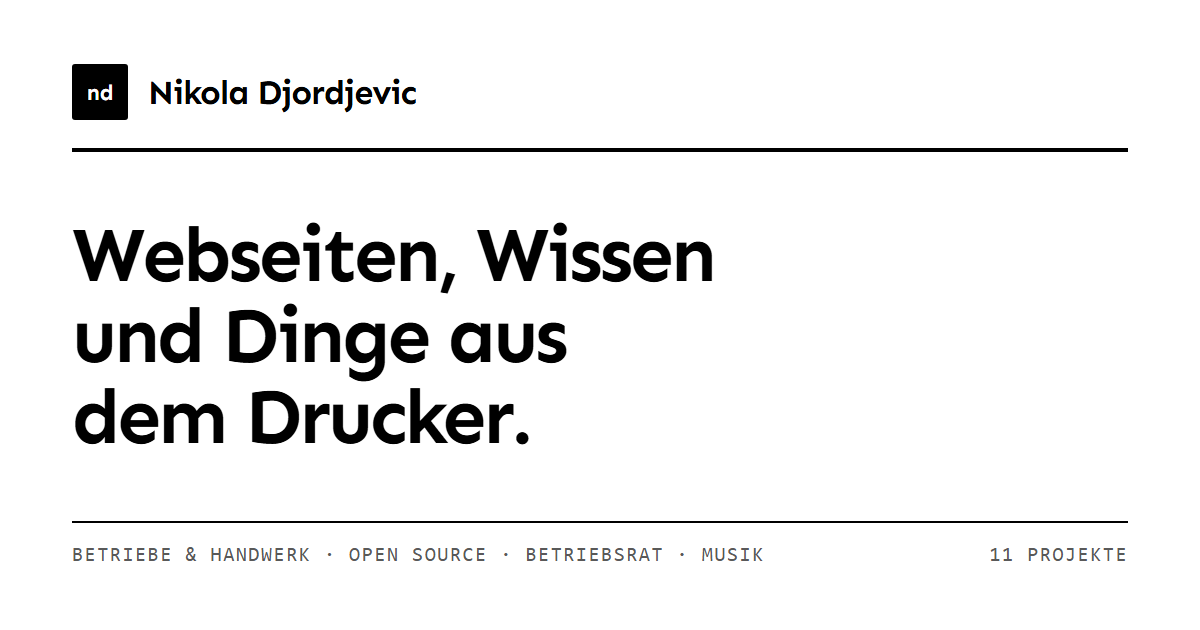
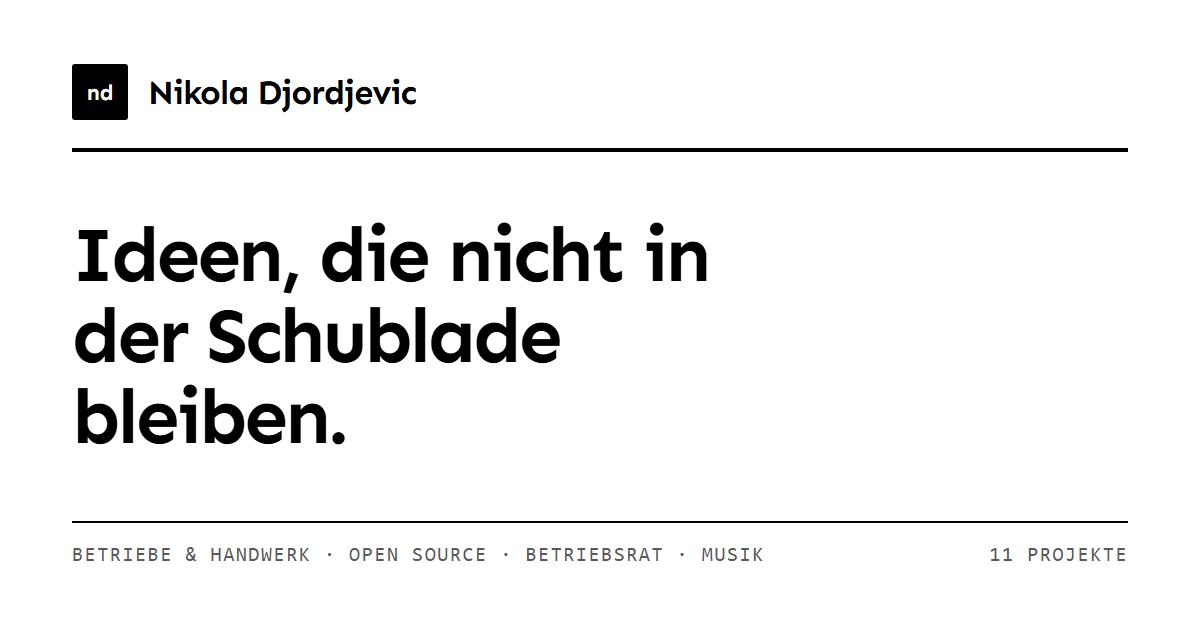
Startseite als Kontaktabzug, neuer Leitsatz: Ideen, die nicht in der Schublade bleiben

Changed region(s): [[0.0617, 0.3619, 0.6167, 0.6032], [0.0617, 0.6032, 0.4625, 0.7238]]

diff --git a/index.html b/index.html
@@ -18,7 +18,7 @@
 <meta property="og:image" content="https://tschortsch3711.github.io/portfolio/assets/bilder/og/start.png">
 <meta property="og:image:width" content="1200">
 <meta property="og:image:height" content="630">
-<meta property="og:image:alt" content="Nikola Djordjevic: Webseiten, Wissen und Dinge aus dem Drucker.">
+<meta property="og:image:alt" content="Nikola Djordjevic: Ideen, die nicht in der Schublade bleiben.">
 <meta name="twitter:card" content="summary_large_image">
 <link rel="icon" href="./favicon.svg" type="image/svg+xml">
 <link rel="preload" href="./fonts/Sen/Sen-Bold.woff2" as="font" type="font/woff2" crossorigin>
@@ -26,6 +26,7 @@
 <link rel="stylesheet" href="./assets/css/site.css">
 </head>
 <body>
+<div class="start">
 <a class="springen" href="#inhalt">Zum Inhalt springen</a>
 <header class="kopf">
   <div class="rahmen">
@@ -36,137 +37,145 @@
     <a class="kopf-link" href="https://github.com/tschortsch3711">GitHub</a>
   </div>
 </header>
-<main id="inhalt">
-  <div class="rahmen">
-    <section class="einleitung">
-      <h1>Webseiten, Wissen und Dinge aus dem Drucker.</h1>
-      <p>Ich bin Nikola, Designer und Maker aus Freising bei München. Hier sind meine öffentlichen Webprojekte, jedes mit einer eigenen Seite.</p>
-    </section>
-
-    <section class="gruppe" aria-labelledby="g-betriebe">
-      <div class="gruppe-kopf">
-        <h2 class="etikett" id="g-betriebe">Betriebe &amp; Handwerk</h2>
-        <span class="etikett" aria-hidden="true">3</span>
-      </div>
+<section class="einleitung">
+  <h1>Ideen, die nicht in der Schublade bleiben.</h1>
+  <p>Ich bin Nikola, Designer und Maker aus Freising bei München. KI nutze ich als Werkzeug, die Ideen sind meine. Hier ist, was daraus geworden ist, jedes Projekt mit eigener Seite.</p>
+</section>
+<main id="inhalt" class="raster">
+    <section class="spalte" aria-labelledby="g-betriebe">
+      <h2 class="etikett spalte-kopf" id="g-betriebe">Betriebe &amp; Handwerk<span aria-hidden="true">3</span></h2>
       <ul>
         <li>
-          <a class="zeile" href="projekte/3dmensional/">
-            <span class="zeile-nr" aria-hidden="true">01</span>
-            <span class="zeile-name">3Dmensional</span>
-            <span class="zeile-satz">3D-Druck, Konstruktion und Gravur in Kranzberg bei Freising.</span>
-            <span class="zeile-pfeil" aria-hidden="true">→</span>
+          <a class="kachel" href="projekte/3dmensional/">
+            <img src="assets/bilder/3dmensional-800.webp" width="800" height="500" alt="" loading="lazy">
+            <span class="kachel-text">
+              <span class="kachel-nr" aria-hidden="true">01</span>
+              <span class="kachel-name">3Dmensional</span>
+              <span class="kachel-satz">3D-Druck, Konstruktion und Gravur in Kranzberg bei Freising.</span>
+            </span>
           </a>
         </li>
         <li>
-          <a class="zeile" href="projekte/lagerhimmel/">
-            <span class="zeile-nr" aria-hidden="true">02</span>
-            <span class="zeile-name">Lagerhimmel</span>
-            <span class="zeile-satz">Abschließbare Lagerhallen und Garagen in Kranzberg.</span>
-            <span class="zeile-pfeil" aria-hidden="true">→</span>
+          <a class="kachel" href="projekte/lagerhimmel/">
+            <img src="assets/bilder/lagerhimmel-800.webp" width="800" height="500" alt="" loading="lazy">
+            <span class="kachel-text">
+              <span class="kachel-nr" aria-hidden="true">02</span>
+              <span class="kachel-name">Lagerhimmel</span>
+              <span class="kachel-satz">Abschließbare Lagerhallen und Garagen in Kranzberg.</span>
+            </span>
           </a>
         </li>
         <li>
-          <a class="zeile" href="projekte/ganachekatze/">
-            <span class="zeile-nr" aria-hidden="true">03</span>
-            <span class="zeile-name">Ganachekatze</span>
-            <span class="zeile-satz">Backblog, Rezepte und Shop rund ums Backen mit Wow-Effekt.</span>
-            <span class="zeile-pfeil" aria-hidden="true">→</span>
+          <a class="kachel" href="projekte/ganachekatze/">
+            <img src="assets/bilder/ganachekatze-800.webp" width="800" height="500" alt="" loading="lazy">
+            <span class="kachel-text">
+              <span class="kachel-nr" aria-hidden="true">03</span>
+              <span class="kachel-name">Ganachekatze</span>
+              <span class="kachel-satz">Backblog, Rezepte und Shop rund ums Backen mit Wow-Effekt.</span>
+            </span>
           </a>
         </li>
       </ul>
     </section>
-
-    <section class="gruppe" aria-labelledby="g-open-source">
-      <div class="gruppe-kopf">
-        <h2 class="etikett" id="g-open-source">Open Source</h2>
-        <span class="etikett" aria-hidden="true">3</span>
-      </div>
+    <section class="spalte" aria-labelledby="g-open-source">
+      <h2 class="etikett spalte-kopf" id="g-open-source">Open Source<span aria-hidden="true">3</span></h2>
       <ul>
         <li>
-          <a class="zeile" href="projekte/von-ka-zu-ki/">
-            <span class="zeile-nr" aria-hidden="true">04</span>
-            <span class="zeile-name">Von K.A. zu K.I.</span>
-            <span class="zeile-satz">Ein verständliches KI-Glossar, über bekannte Fachwelten greifbar gemacht.</span>
-            <span class="zeile-pfeil" aria-hidden="true">→</span>
+          <a class="kachel" href="projekte/von-ka-zu-ki/">
+            <img src="assets/bilder/von-ka-zu-ki-800.webp" width="800" height="500" alt="" loading="lazy">
+            <span class="kachel-text">
+              <span class="kachel-nr" aria-hidden="true">04</span>
+              <span class="kachel-name">Von K.A. zu K.I.</span>
+              <span class="kachel-satz">Ein verständliches KI-Glossar, über bekannte Fachwelten greifbar gemacht.</span>
+            </span>
           </a>
         </li>
         <li>
-          <a class="zeile" href="projekte/fleischbibel/">
-            <span class="zeile-nr" aria-hidden="true">05</span>
-            <span class="zeile-name">Fleischbibel</span>
-            <span class="zeile-satz">Die zentrale Dokumentation der Fleischgemeinschaft.</span>
-            <span class="zeile-pfeil" aria-hidden="true">→</span>
+          <a class="kachel" href="projekte/fleischbibel/">
+            <img src="assets/bilder/fleischbibel-800.webp" width="800" height="500" alt="" loading="lazy">
+            <span class="kachel-text">
+              <span class="kachel-nr" aria-hidden="true">05</span>
+              <span class="kachel-name">Fleischbibel</span>
+              <span class="kachel-satz">Die zentrale Dokumentation der Fleischgemeinschaft.</span>
+            </span>
           </a>
         </li>
         <li>
-          <a class="zeile" href="projekte/shisha-as-a-service/">
-            <span class="zeile-nr" aria-hidden="true">06</span>
-            <span class="zeile-name">Shisha as a Service</span>
-            <span class="zeile-satz">Vier Shisha-Bars zur Wahl, zwischen Freising und Regensburg.</span>
-            <span class="zeile-pfeil" aria-hidden="true">→</span>
+          <a class="kachel" href="projekte/shisha-as-a-service/">
+            <img src="assets/bilder/shisha-as-a-service-800.webp" width="800" height="500" alt="" loading="lazy">
+            <span class="kachel-text">
+              <span class="kachel-nr" aria-hidden="true">06</span>
+              <span class="kachel-name">Shisha as a Service</span>
+              <span class="kachel-satz">Vier Shisha-Bars zur Wahl, zwischen Freising und Regensburg.</span>
+            </span>
           </a>
         </li>
       </ul>
     </section>
-
-    <section class="gruppe" aria-labelledby="g-betriebsrat">
-      <div class="gruppe-kopf">
-        <h2 class="etikett" id="g-betriebsrat">Betriebsrat</h2>
-        <span class="etikett" aria-hidden="true">3</span>
-      </div>
+    <section class="spalte" aria-labelledby="g-betriebsrat">
+      <h2 class="etikett spalte-kopf" id="g-betriebsrat">Betriebsrat<span aria-hidden="true">3</span></h2>
       <ul>
         <li>
-          <a class="zeile" href="projekte/br-simulator/">
-            <span class="zeile-nr" aria-hidden="true">07</span>
-            <span class="zeile-name">BR-Simulator</span>
-            <span class="zeile-satz">Eine Woche Betriebsratsarbeit als Text-Simulation im Browser.</span>
-            <span class="zeile-pfeil" aria-hidden="true">→</span>
+          <a class="kachel" href="projekte/br-simulator/">
+            <img src="assets/bilder/br-simulator-800.webp" width="800" height="500" alt="" loading="lazy">
+            <span class="kachel-text">
+              <span class="kachel-nr" aria-hidden="true">07</span>
+              <span class="kachel-name">BR-Simulator</span>
+              <span class="kachel-satz">Eine Woche Betriebsratsarbeit als Text-Simulation im Browser.</span>
+            </span>
           </a>
         </li>
         <li>
-          <a class="zeile" href="projekte/br-selbstcheck/">
-            <span class="zeile-nr" aria-hidden="true">08</span>
-            <span class="zeile-name">BR-Selbstcheck</span>
-            <span class="zeile-satz">Ein Selbstcheck für alle, die über eine Kandidatur zum Betriebsrat nachdenken.</span>
-            <span class="zeile-pfeil" aria-hidden="true">→</span>
+          <a class="kachel" href="projekte/br-selbstcheck/">
+            <img src="assets/bilder/br-selbstcheck-800.webp" width="800" height="500" alt="" loading="lazy">
+            <span class="kachel-text">
+              <span class="kachel-nr" aria-hidden="true">08</span>
+              <span class="kachel-name">BR-Selbstcheck</span>
+              <span class="kachel-satz">Ein Selbstcheck für alle, die über eine Kandidatur zum Betriebsrat nachdenken.</span>
+            </span>
           </a>
         </li>
         <li>
-          <a class="zeile" href="projekte/br-or-not-2-br/">
-            <span class="zeile-nr" aria-hidden="true">09</span>
-            <span class="zeile-name">BR or not 2 BR?</span>
-            <span class="zeile-satz">Eine Entscheidungshilfe mit Augenzwinkern, ob man zur Betriebsratswahl geht.</span>
-            <span class="zeile-pfeil" aria-hidden="true">→</span>
+          <a class="kachel" href="projekte/br-or-not-2-br/">
+            <img src="assets/bilder/br-or-not-2-br-800.webp" width="800" height="500" alt="" loading="lazy">
+            <span class="kachel-text">
+              <span class="kachel-nr" aria-hidden="true">09</span>
+              <span class="kachel-name">BR or not 2 BR?</span>
+              <span class="kachel-satz">Eine Entscheidungshilfe mit Augenzwinkern, ob man zur Betriebsratswahl geht.</span>
+            </span>
           </a>
         </li>
       </ul>
     </section>
-
-    <section class="gruppe" aria-labelledby="g-musik">
-      <div class="gruppe-kopf">
-        <h2 class="etikett" id="g-musik">Musik</h2>
-        <span class="etikett" aria-hidden="true">2</span>
-      </div>
+    <section class="spalte" aria-labelledby="g-musik">
+      <h2 class="etikett spalte-kopf" id="g-musik">Musik<span aria-hidden="true">2</span></h2>
       <ul>
         <li>
-          <a class="zeile" href="projekte/this-is-tschortsch/">
-            <span class="zeile-nr" aria-hidden="true">10</span>
-            <span class="zeile-name">This is tschortsch</span>
-            <span class="zeile-satz">Eigene Songs auf Spotify, entstanden mit Suno.</span>
-            <span class="zeile-pfeil" aria-hidden="true">→</span>
+          <a class="kachel" href="projekte/this-is-tschortsch/">
+            <img src="assets/bilder/this-is-tschortsch-800.webp" width="800" height="500" alt="" loading="lazy">
+            <span class="kachel-text">
+              <span class="kachel-nr" aria-hidden="true">10</span>
+              <span class="kachel-name">This is tschortsch</span>
+              <span class="kachel-satz">Eigene Songs auf Spotify, entstanden mit Suno.</span>
+            </span>
           </a>
         </li>
         <li>
-          <a class="zeile" href="projekte/release-pipeline/">
-            <span class="zeile-nr" aria-hidden="true">11</span>
-            <span class="zeile-name">Release-Pipeline</span>
-            <span class="zeile-satz">Wie aus einer Songidee ein Release auf Spotify wird, mit Claude Code.</span>
-            <span class="zeile-pfeil" aria-hidden="true">→</span>
+          <a class="kachel" href="projekte/release-pipeline/">
+            <img src="assets/bilder/release-pipeline-800.webp" width="800" height="500" alt="" loading="lazy">
+            <span class="kachel-text">
+              <span class="kachel-nr" aria-hidden="true">11</span>
+              <span class="kachel-name">Release-Pipeline</span>
+              <span class="kachel-satz">Wie aus einer Songidee ein Release auf Spotify wird, mit Claude Code.</span>
+            </span>
           </a>
+        </li>
+        <li class="kachel kachel-info">
+          <p>11 Projekte, statisch und ohne Tracking.</p>
+          <a href="https://github.com/tschortsch3711">Alles auf GitHub →</a>
         </li>
       </ul>
     </section>
-  </div>
 </main>
 <footer class="fuss">
   <div class="rahmen">
@@ -175,5 +184,6 @@
     <a href="https://github.com/tschortsch3711">github.com/tschortsch3711</a>
   </div>
 </footer>
+</div>
 </body>
 </html>

diff --git a/assets/css/site.css b/assets/css/site.css
@@ -66,18 +66,81 @@ ul, ol { padding: 0; list-style: none; }
 .wortmarke:hover .wortmarke-name { text-decoration: underline; text-decoration-thickness: var(--l-fett); }
 .kopf-link { font-size: var(--t-klein); font-weight: 700; }
 
-/* Startseite ------------------------------------------------------------- */
-.einleitung { padding: var(--s-8) 0 var(--s-7); }
-.einleitung h1 {
-  font-size: var(--t-titel); line-height: var(--z-eng); letter-spacing: var(--sp-eng);
-  max-width: 18ch;
+/* Startseite: Kontaktabzug, auf dem Desktop alles auf einen Blick -------- */
+.start { min-height: 100svh; display: grid; grid-template-rows: auto auto 1fr auto; }
+.start .rahmen, .einleitung, .raster { max-width: calc(var(--breite-start) + 2 * var(--rand)); }
+.einleitung {
+  width: 100%; margin: 0 auto; padding: var(--s-6) var(--rand) var(--s-5);
+  display: grid; grid-template-columns: 1.4fr 1fr; gap: var(--s-6); align-items: end;
+  border-bottom: var(--l-fett) solid var(--c-tinte);
 }
-.einleitung p {
-  margin-top: var(--s-5); max-width: var(--lesebreite);
-  font-size: var(--t-gross); color: var(--c-leise);
+.einleitung h1 {
+  font-size: clamp(2rem, 4.2vw, 3.5rem); line-height: 1.02; letter-spacing: var(--sp-eng);
+  text-wrap: balance;
+}
+.einleitung p { max-width: 30rem; font-size: var(--t-gross); color: var(--c-leise); }
+
+.raster {
+  width: 100%; margin: 0 auto; padding: var(--s-5) var(--rand);
+  display: grid; grid-template-columns: repeat(4, 1fr); gap: var(--s-4);
+}
+.spalte { display: grid; grid-template-rows: auto 1fr; gap: var(--s-3); min-height: 0; }
+.spalte ul { display: grid; grid-template-rows: repeat(3, 1fr); gap: var(--s-3); min-height: 0; }
+.spalte-kopf {
+  display: flex; justify-content: space-between;
+  border-top: var(--l-fett) solid var(--c-tinte); padding-top: var(--s-2);
 }
 
-.gruppe { padding-bottom: var(--s-7); }
+/* Kachel: Screenshot in Graustufen, beim Überfahren in Farbe */
+.kachel {
+  position: relative; display: block; height: 100%; min-height: 9rem; overflow: hidden;
+  border: var(--l-duenn) solid var(--c-tinte); border-radius: var(--r-1);
+  background: var(--c-flaeche); text-decoration: none;
+}
+.kachel img {
+  position: absolute; inset: 0; width: 100%; height: 100%;
+  object-fit: cover; object-position: top;
+  filter: grayscale(1) contrast(1.05); transition: filter .25s ease, transform .4s ease;
+}
+.kachel-text {
+  position: absolute; left: 0; right: 0; bottom: 0;
+  display: grid; grid-template-columns: auto 1fr; gap: 0 var(--s-2); align-items: baseline;
+  padding: var(--s-2) var(--s-3);
+  background: var(--c-papier); border-top: var(--l-duenn) solid var(--c-tinte);
+  transition: background-color .12s ease, color .12s ease;
+}
+.kachel-nr { font-family: var(--f-mono); font-size: var(--t-klein); color: var(--c-leise); }
+.kachel-name { font-weight: 700; letter-spacing: -0.02em; }
+.kachel-satz {
+  grid-column: 1 / 3; max-height: 0; overflow: hidden;
+  font-size: var(--t-klein); line-height: 1.4; color: var(--c-leise); transition: max-height .25s ease;
+}
+.kachel:hover img, .kachel:focus-visible img { filter: none; transform: scale(1.03); }
+.kachel:hover .kachel-text, .kachel:focus-visible .kachel-text { background: var(--c-tinte); color: var(--c-papier); }
+.kachel:hover .kachel-nr, .kachel:focus-visible .kachel-nr { color: var(--c-haar); }
+.kachel:hover .kachel-satz, .kachel:focus-visible .kachel-satz { max-height: 3rem; color: var(--c-haar); }
+.kachel:focus-visible { outline-offset: 2px; }
+.kachel-info {
+  padding: var(--s-4); background: var(--c-tinte); color: var(--c-papier);
+  display: flex; flex-direction: column; justify-content: space-between;
+}
+.kachel-info a { color: var(--c-papier); font-weight: 700; }
+.start .fuss .rahmen { padding-top: var(--s-3); padding-bottom: var(--s-3); }
+
+@media (max-width: 64rem) {
+  .start { display: block; }
+  .raster { grid-template-columns: repeat(2, 1fr); row-gap: var(--s-6); }
+}
+@media (max-width: 40rem) {
+  .einleitung { grid-template-columns: 1fr; gap: var(--s-3); }
+  .raster { grid-template-columns: 1fr; }
+  .spalte ul { grid-template-columns: 1fr 1fr; grid-template-rows: none; }
+  .kachel { min-height: 0; }
+  .kachel img { position: static; height: 7.5rem; }
+  .kachel-text { position: static; }
+  .kachel-satz { max-height: none; }
+}
+@media (hover: none) { .kachel img { filter: none; } }
 .gruppe-kopf {
   display: flex; justify-content: space-between; align-items: baseline; gap: var(--s-4);
   border-top: var(--l-fett) solid var(--c-tinte);

diff --git a/assets/css/tokens.css b/assets/css/tokens.css
@@ -60,6 +60,7 @@
 
   /* Raster */
   --breite: 60rem;
+  --breite-start: 80rem;  /* Startseite: vier Spalten nebeneinander */
   --rand: 2rem;
   --lesebreite: 38rem;
 }

diff --git a/DESIGN.md b/DESIGN.md
@@ -21,7 +21,9 @@ Alle Werte stehen als CSS-Variablen in [`assets/css/tokens.css`](assets/css/toke
 
 **Kopfzeile** `.kopf`: Wortmarke oben links (schwarzes Kästchen „nd“ plus Name). Sie führt immer zur Startseite und ist der Weg zurück. Rechts nur der Link zu GitHub. Unten eine 2-px-Linie.
 
-**Projektzeile** `.zeile`: Ein ganzer Link pro Projekt mit Nummer, Name, einem Satz und Pfeil. Beim Überfahren dreht sich die Zeile auf Weiß auf Schwarz. Auf dem Handy rutscht der Satz unter den Namen.
+**Startseite als Kontaktabzug** `.start`, `.raster`, `.spalte`, `.kachel`: Auf dem Desktop passen alle Projekte auf einen Bildschirm, mit einer Spalte pro Gruppe und bis zu drei Kacheln. Eine Kachel zeigt den Screenshot in Graustufen mit Nummer und Name. Beim Überfahren wird er farbig, die Leiste wird schwarz und der Satz zum Projekt erscheint. Fehlen in einer Gruppe Projekte, füllt eine schwarze Info-Kachel die Lücke. Unter 64rem gibt es zwei Spalten, unter 40rem stehen die Gruppen untereinander, mit je zwei Kacheln in Farbe.
+
+**Projektzeile** `.zeile` (nicht mehr auf der Startseite, die Stile nutzt noch der Weiter-Block): Ein ganzer Link pro Projekt mit Nummer, Name, einem Satz und Pfeil. Beim Überfahren dreht sich die Zeile auf Weiß auf Schwarz. Auf dem Handy rutscht der Satz unter den Namen.
 
 **Projekt-Hero** `.held`: Etikett mit Gruppe und Nummer, darunter die Aussage in einem Satz in der größten Stufe, dann ein kurzer Untertitel und ein Screenshot der Live-Seite mit 1-px-Rahmen.
 
